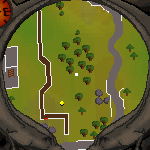
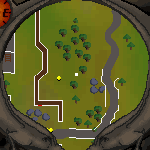
implemented greyscaling
now with 80% confidence can find the right trees on the minimap...

diff --git a/minimap_bot.py b/minimap_bot.py
@@ -1,9 +1,10 @@
+import os
+from dotenv import load_dotenv
 import pyautogui
 from pywinauto import Application
 import cv2
 import numpy as np
-import os
-from dotenv import load_dotenv
+
 
 load_dotenv()
 
@@ -22,25 +23,30 @@ app.top_window().set_focus()
 
 minimap = pyautogui.screenshot(region=REGION)
 minimap.save("output_images/current_minimap.png")
-
 minimap = np.array(minimap)
-os.system('cls')
+
+grey_minimap = cv2.cvtColor(minimap, cv2.COLOR_RGB2GRAY)
 
 tree_img = cv2.imread(TREE_IMAGE)
-result = cv2.matchTemplate(minimap, tree_img, cv2.TM_CCOEFF_NORMED)
+grey_tree_img = cv2.cvtColor(tree_img, cv2.COLOR_BGR2GRAY)
 
-threshold = 0.43
-loc = np.where(result >= threshold)
+grey_result = cv2.matchTemplate(grey_minimap, grey_tree_img, cv2.TM_CCOEFF_NORMED)
 
-trees_found = loc[0].size
-if trees_found > 0:
-    print(f'Number of trees found: {trees_found}')
-    if trees_found <= 30:
-        for i in range(loc[0].size):
-            x = loc[1][i]
-            y = loc[0][i]
-            cv2.putText(minimap, ".", (x, y), cv2.FONT_HERSHEY_SIMPLEX, 0.5, (125, 246, 55), 2)
-            cv2.imwrite(f'output_images/trees_found.png', minimap)
+
+os.system('cls')
+
+grey_threshold = 0.8
+grey_loc = np.where(grey_result >= grey_threshold)
+grey_trees_found = grey_loc[0].size
+if grey_trees_found > 0:
+    print(f'Number of trees found: {grey_trees_found}')
+    if grey_trees_found <= 30:
+        for i in range(grey_loc[0].size):
+            x = grey_loc[1][i]
+            y = grey_loc[0][i]
+            cv2.putText(grey_minimap, ".", (x, y), cv2.FONT_HERSHEY_SIMPLEX, 0.5, (125, 246, 55), 2)
+            cv2.imwrite(f'output_images/grey_trees_found.png', grey_minimap)
+
 else:
     print("No trees found.")
-    cv2.imwrite(f'output_images/trees_found.png', minimap)
+    cv2.imwrite(f'output_images/grey_trees_found.png', grey_minimap)
